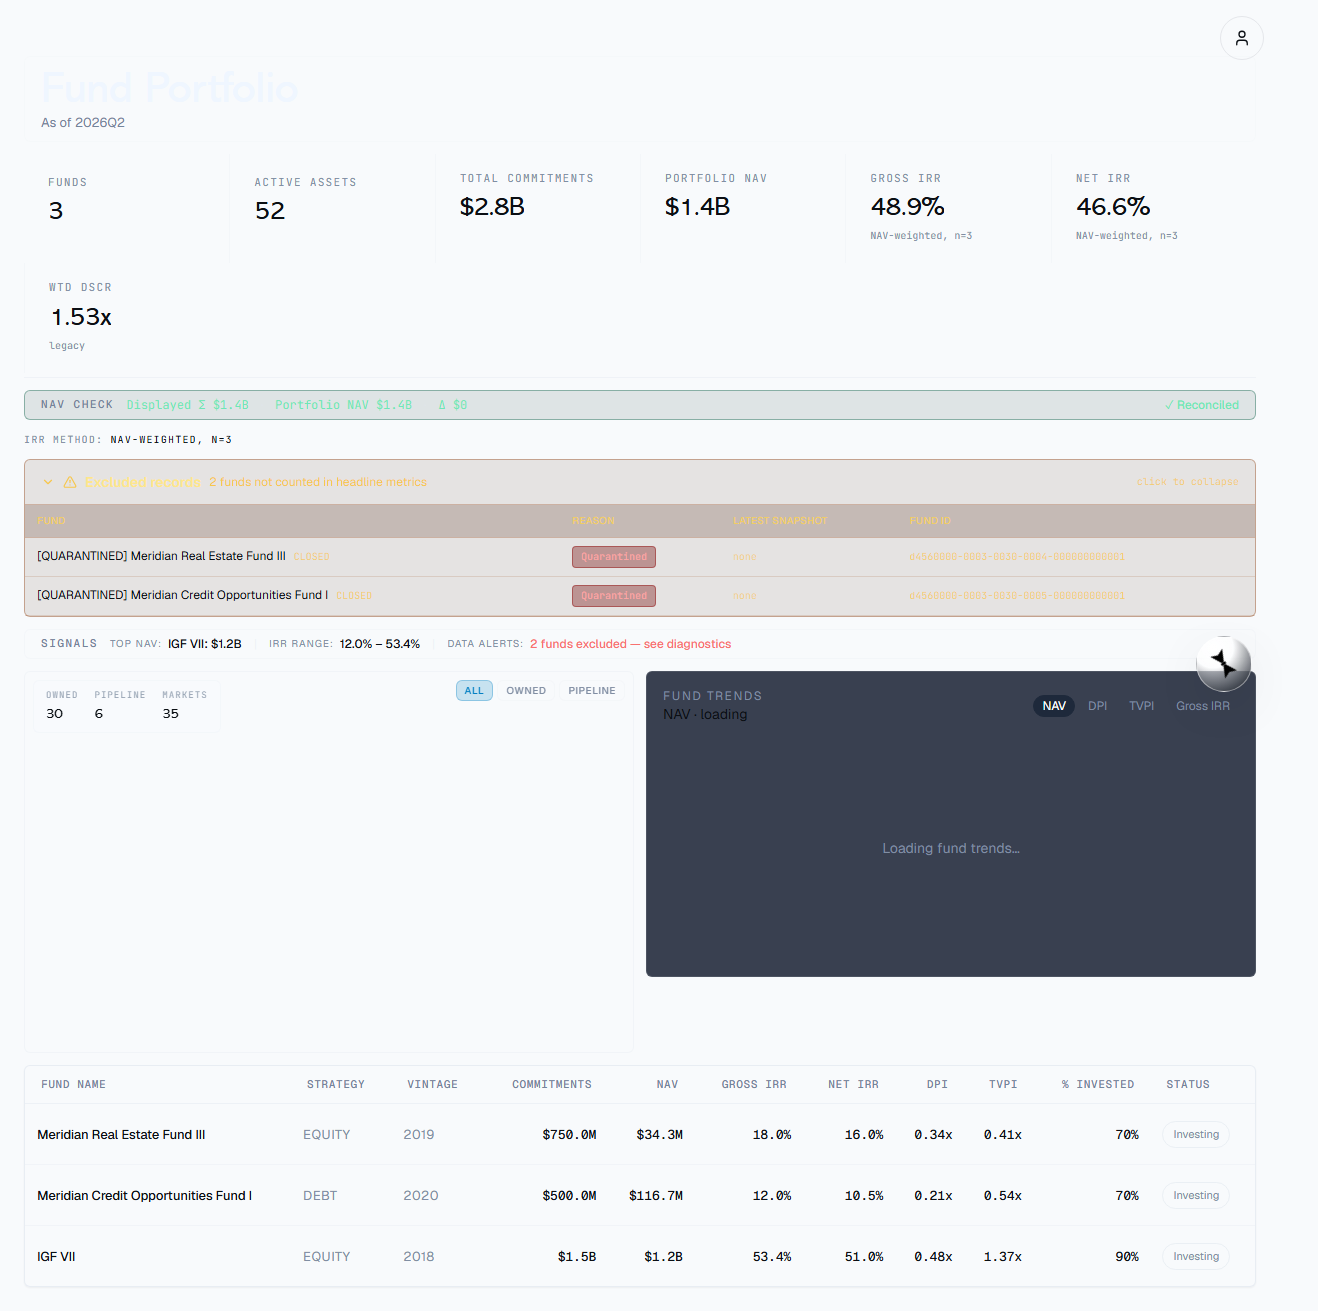
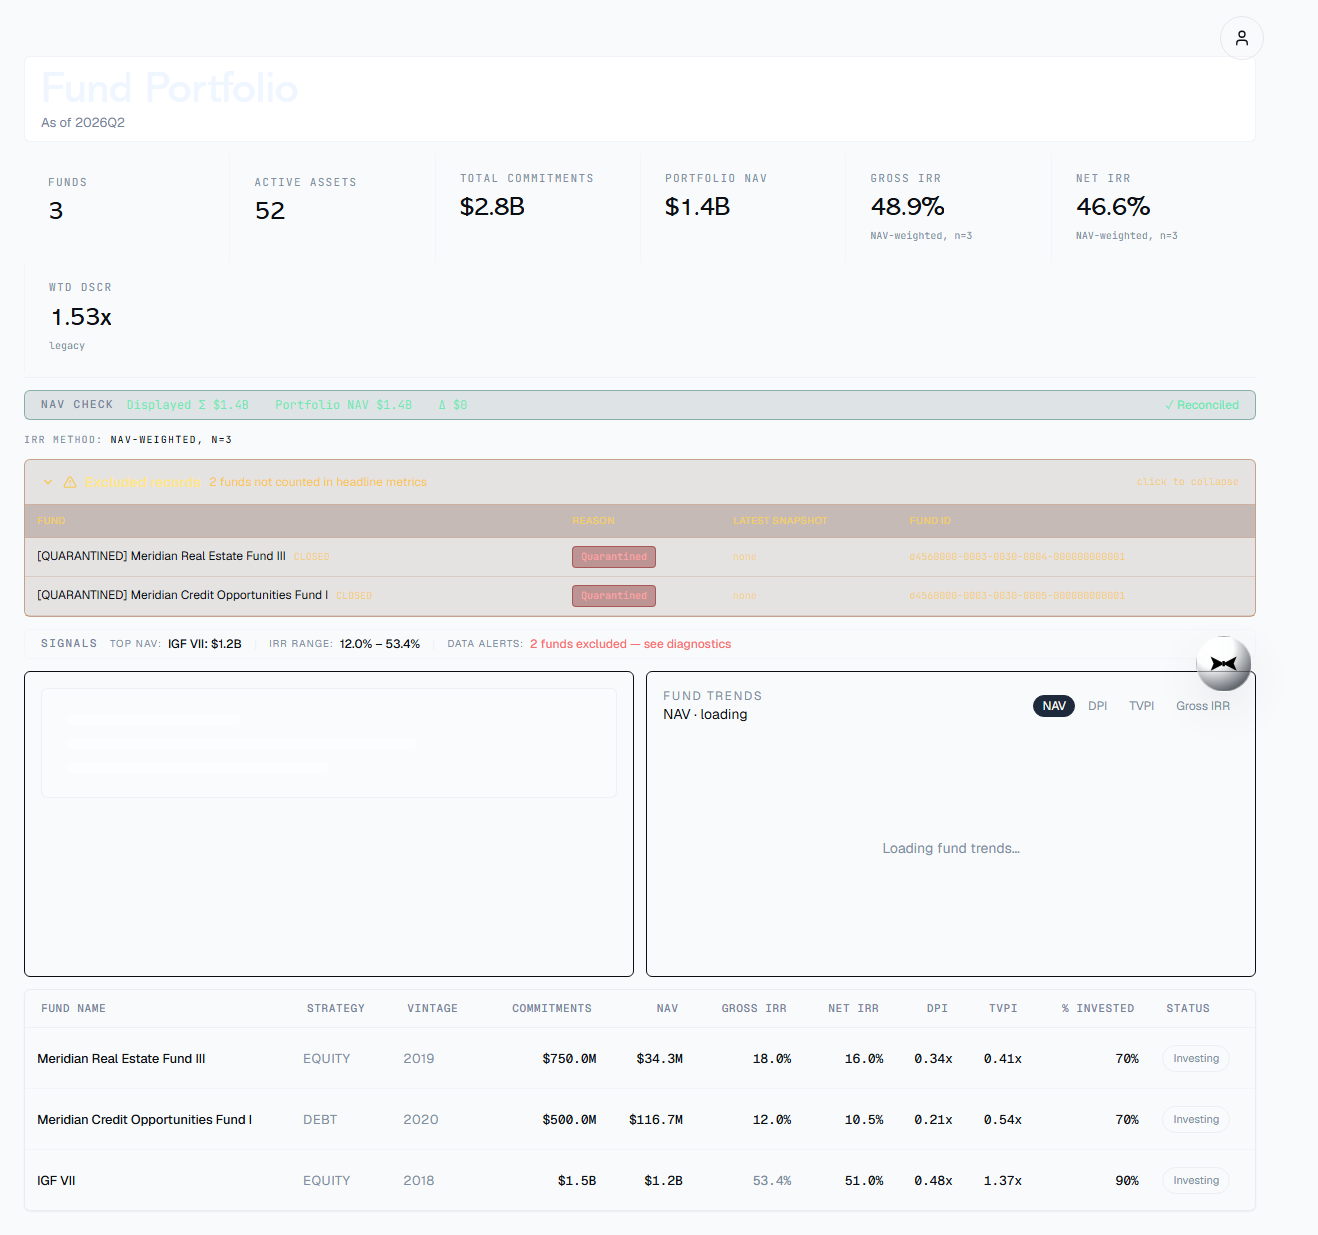
chore(audit): update fund portfolio coherence screenshots and parallel test report

diff --git a/orchestration/parallel_test_report.md b/orchestration/parallel_test_report.md
@@ -17,6 +17,6 @@
   },
   "session_a": "aaaaaaaa-aaaa-4aaa-8aaa-aaaaaaaaaaaa",
   "session_b": "bbbbbbbb-bbbb-4bbb-8bbb-bbbbbbbbbbbb",
-  "timestamp_utc": "2026-05-09T12:42:52.841434+00:00"
+  "timestamp_utc": "2026-05-11T18:08:18.375210+00:00"
 }
 ```
